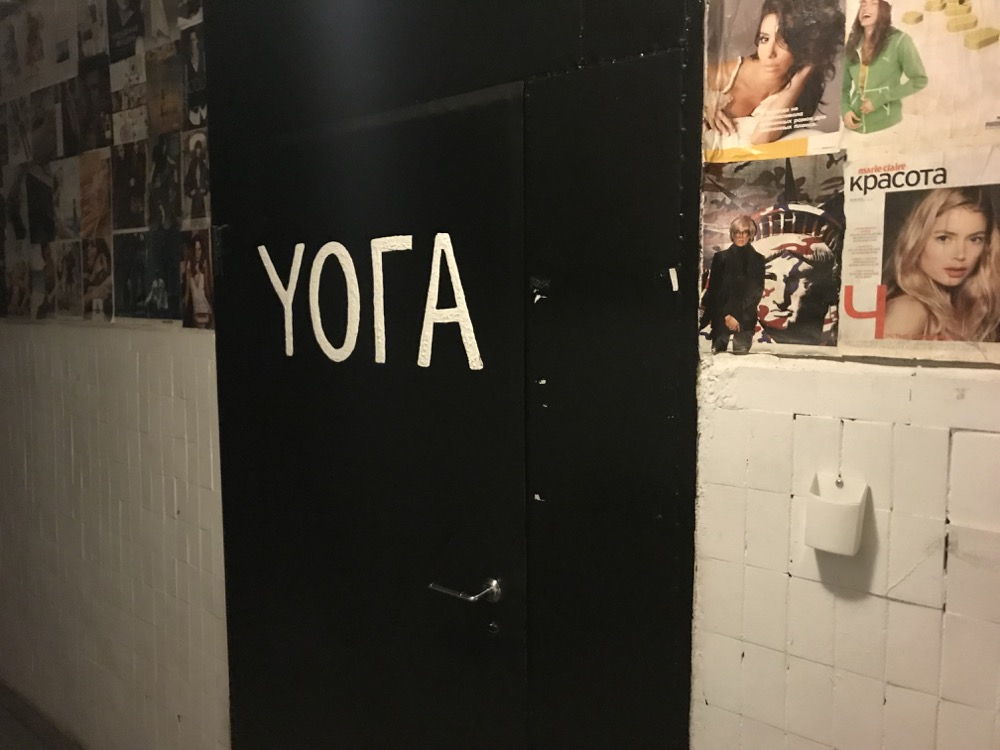
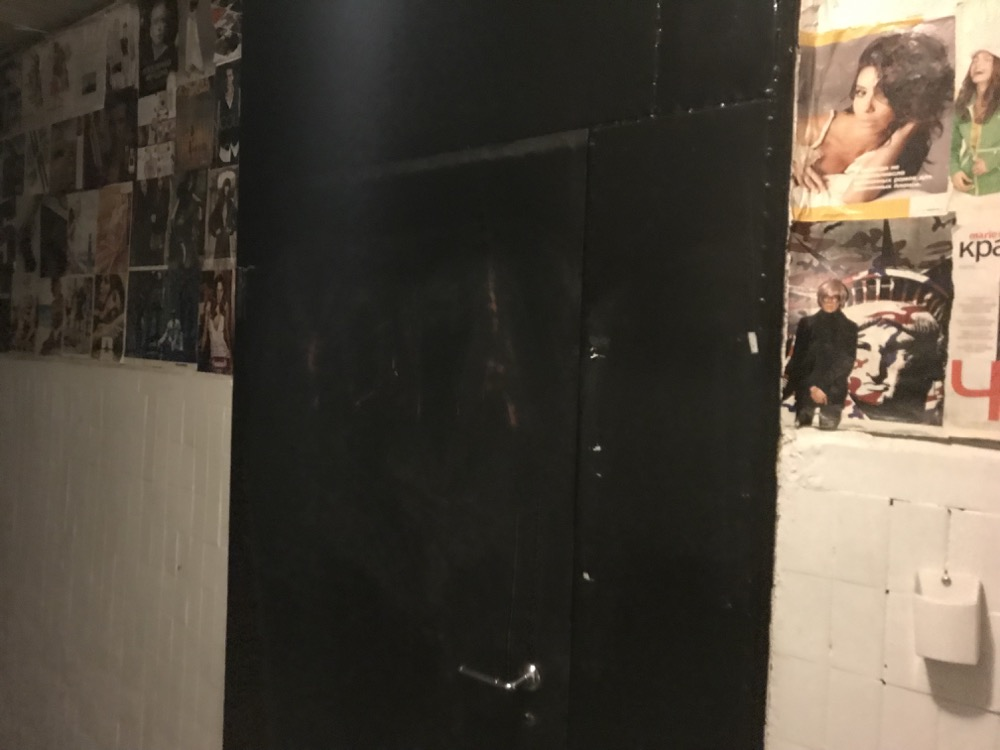
upd adress

diff --git a/address/index.html b/address/index.html
@@ -110,7 +110,7 @@
       <div class="col-12 col-lg-8 pl-0"><img class="w-100" src="assets/2-entrance.jpg" alt="Прохідна"></div>
 			<div class="col-12 col-lg-8 pl-0"><p class="mt-5">Вхід до будівлі у червоні двері з написом STUDIO1:</p></div>
 			<div class="col-12 col-lg-8 pl-0"><img class="w-100" src="assets/3-entrance.jpg" alt="Вхід до будівлі"></div>
-			<div class="col-12 col-lg-8 pl-0"><p class="mt-5">Другий поверх, двері з написом YОГА :)</p></div>
+			<div class="col-12 col-lg-8 pl-0"><p class="mt-5">Другий поверх, чорні двері</p></div>
 			<div class="col-12 col-lg-8 pl-0"><img class="w-100" src="assets/4-door.jpg" alt="Двері з написом YОГА :)"></div>
 		</div>
 	</div>
